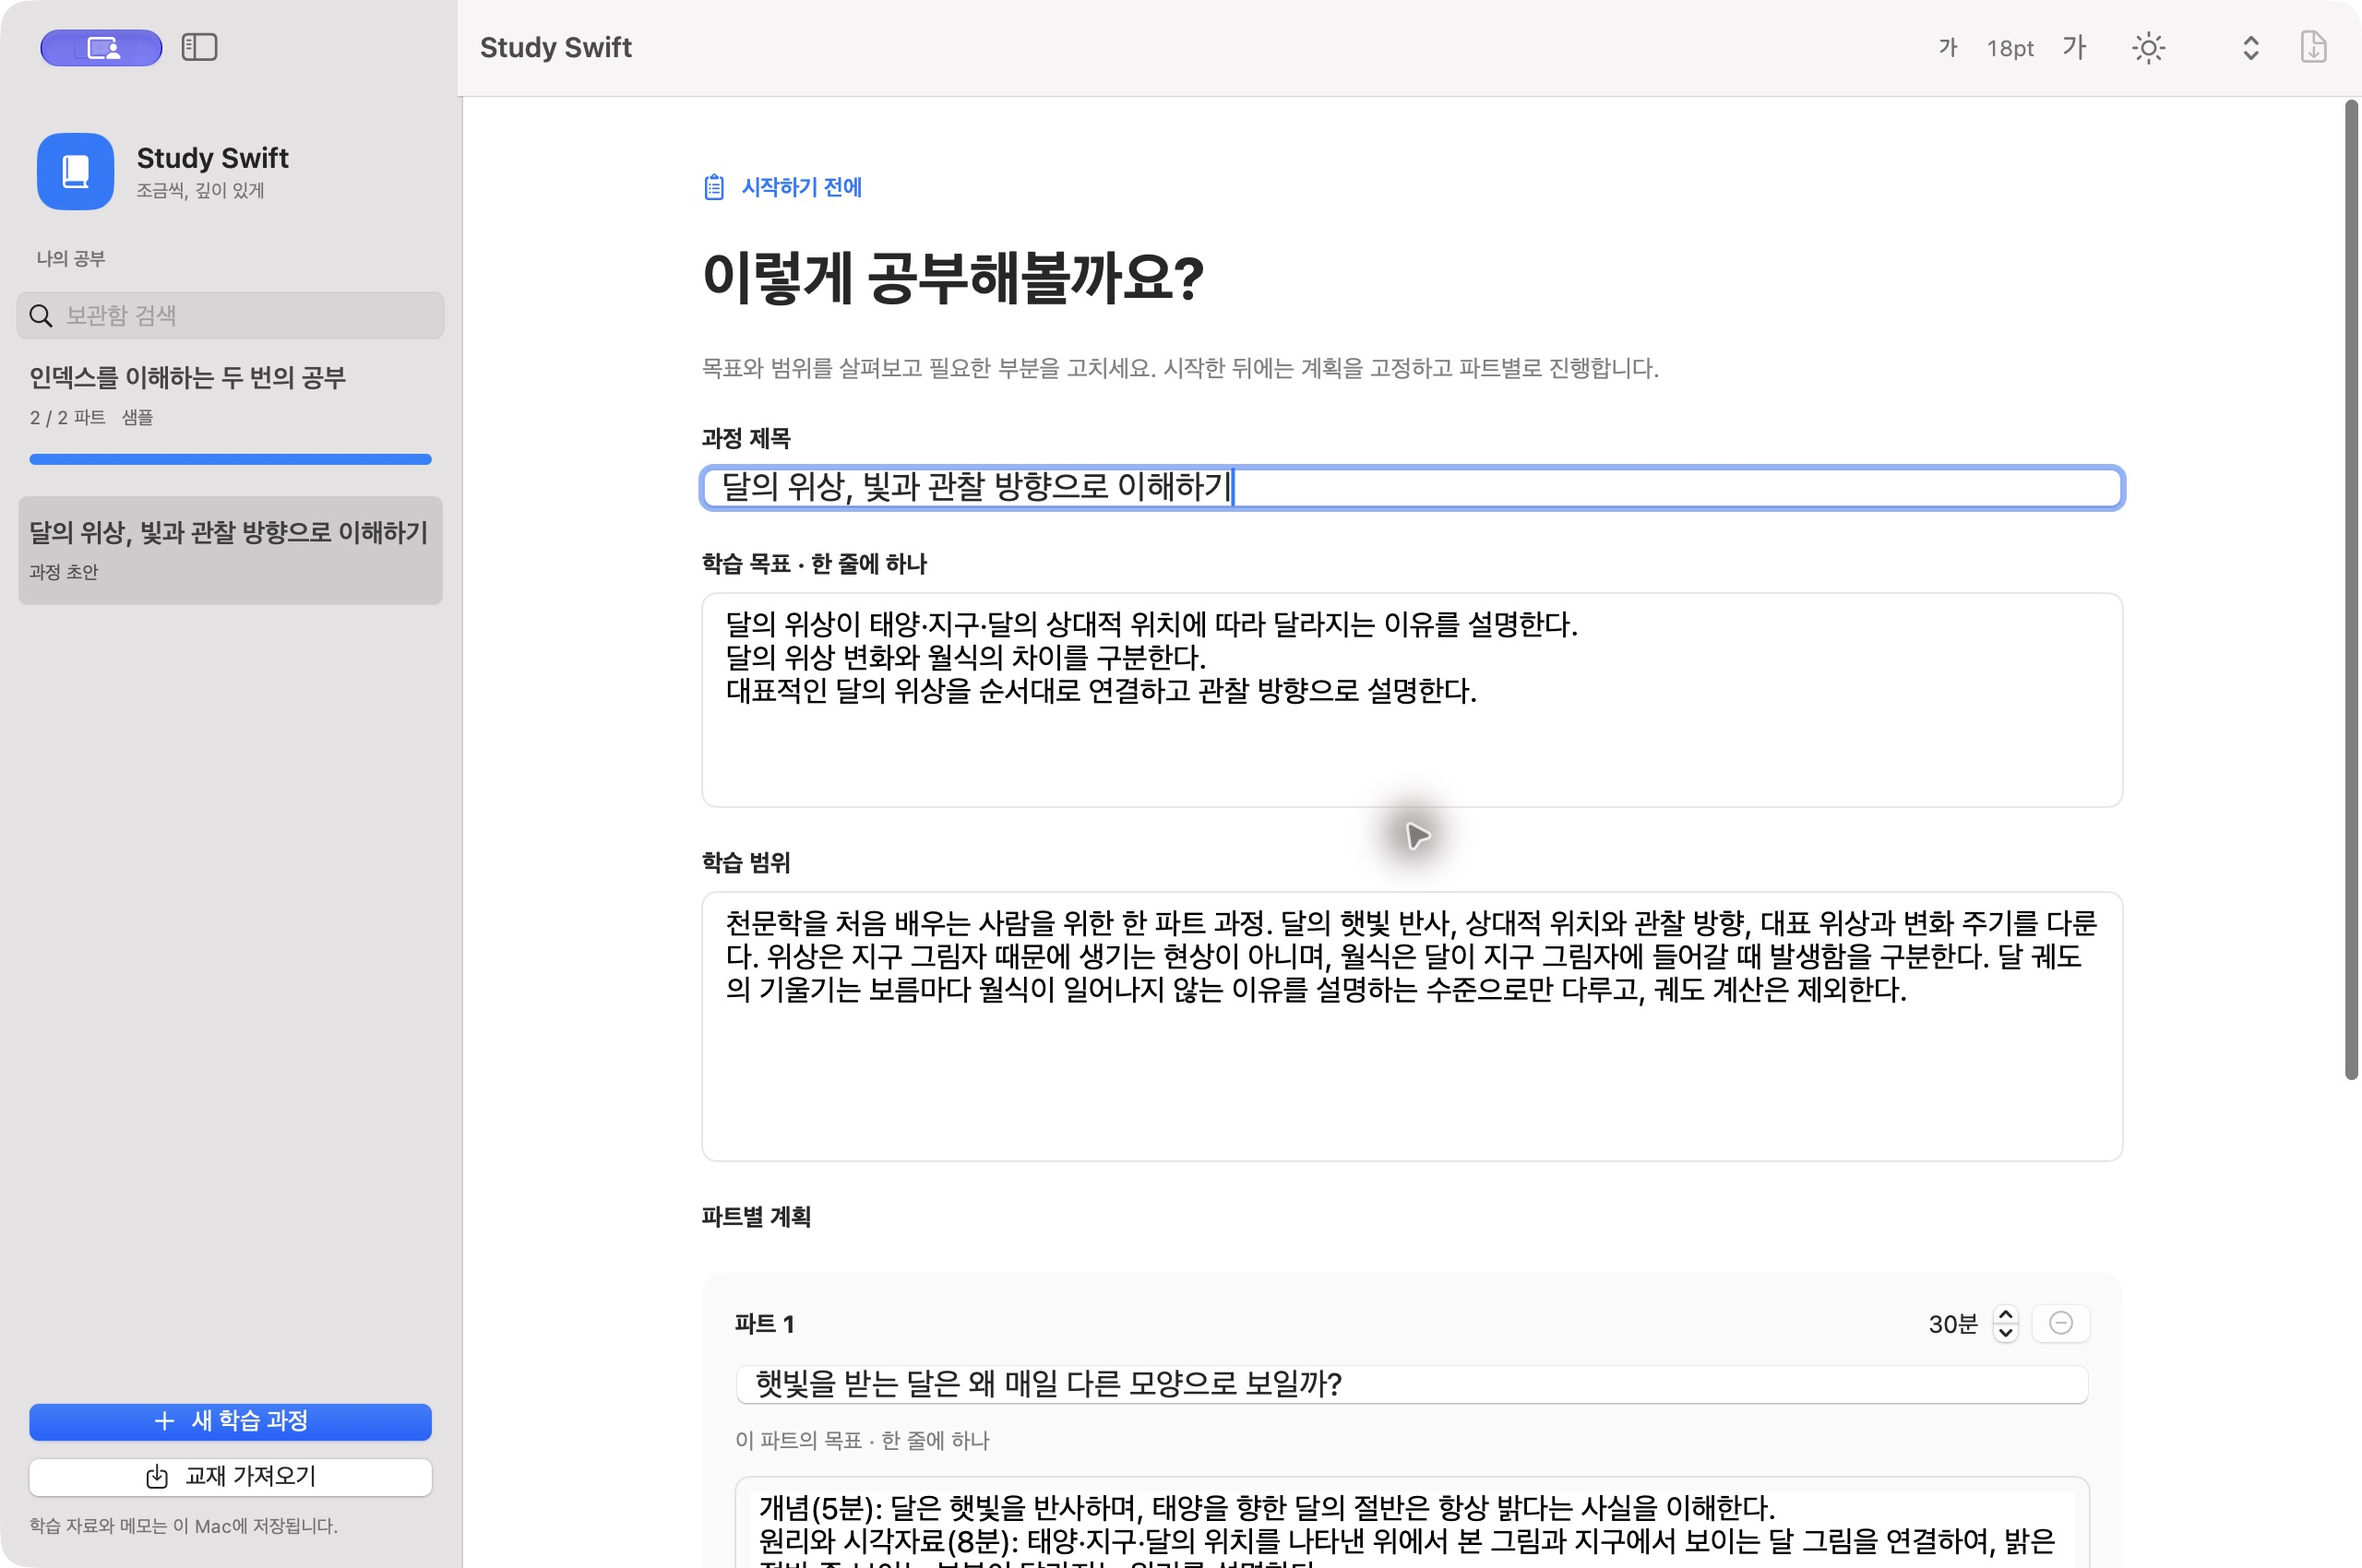
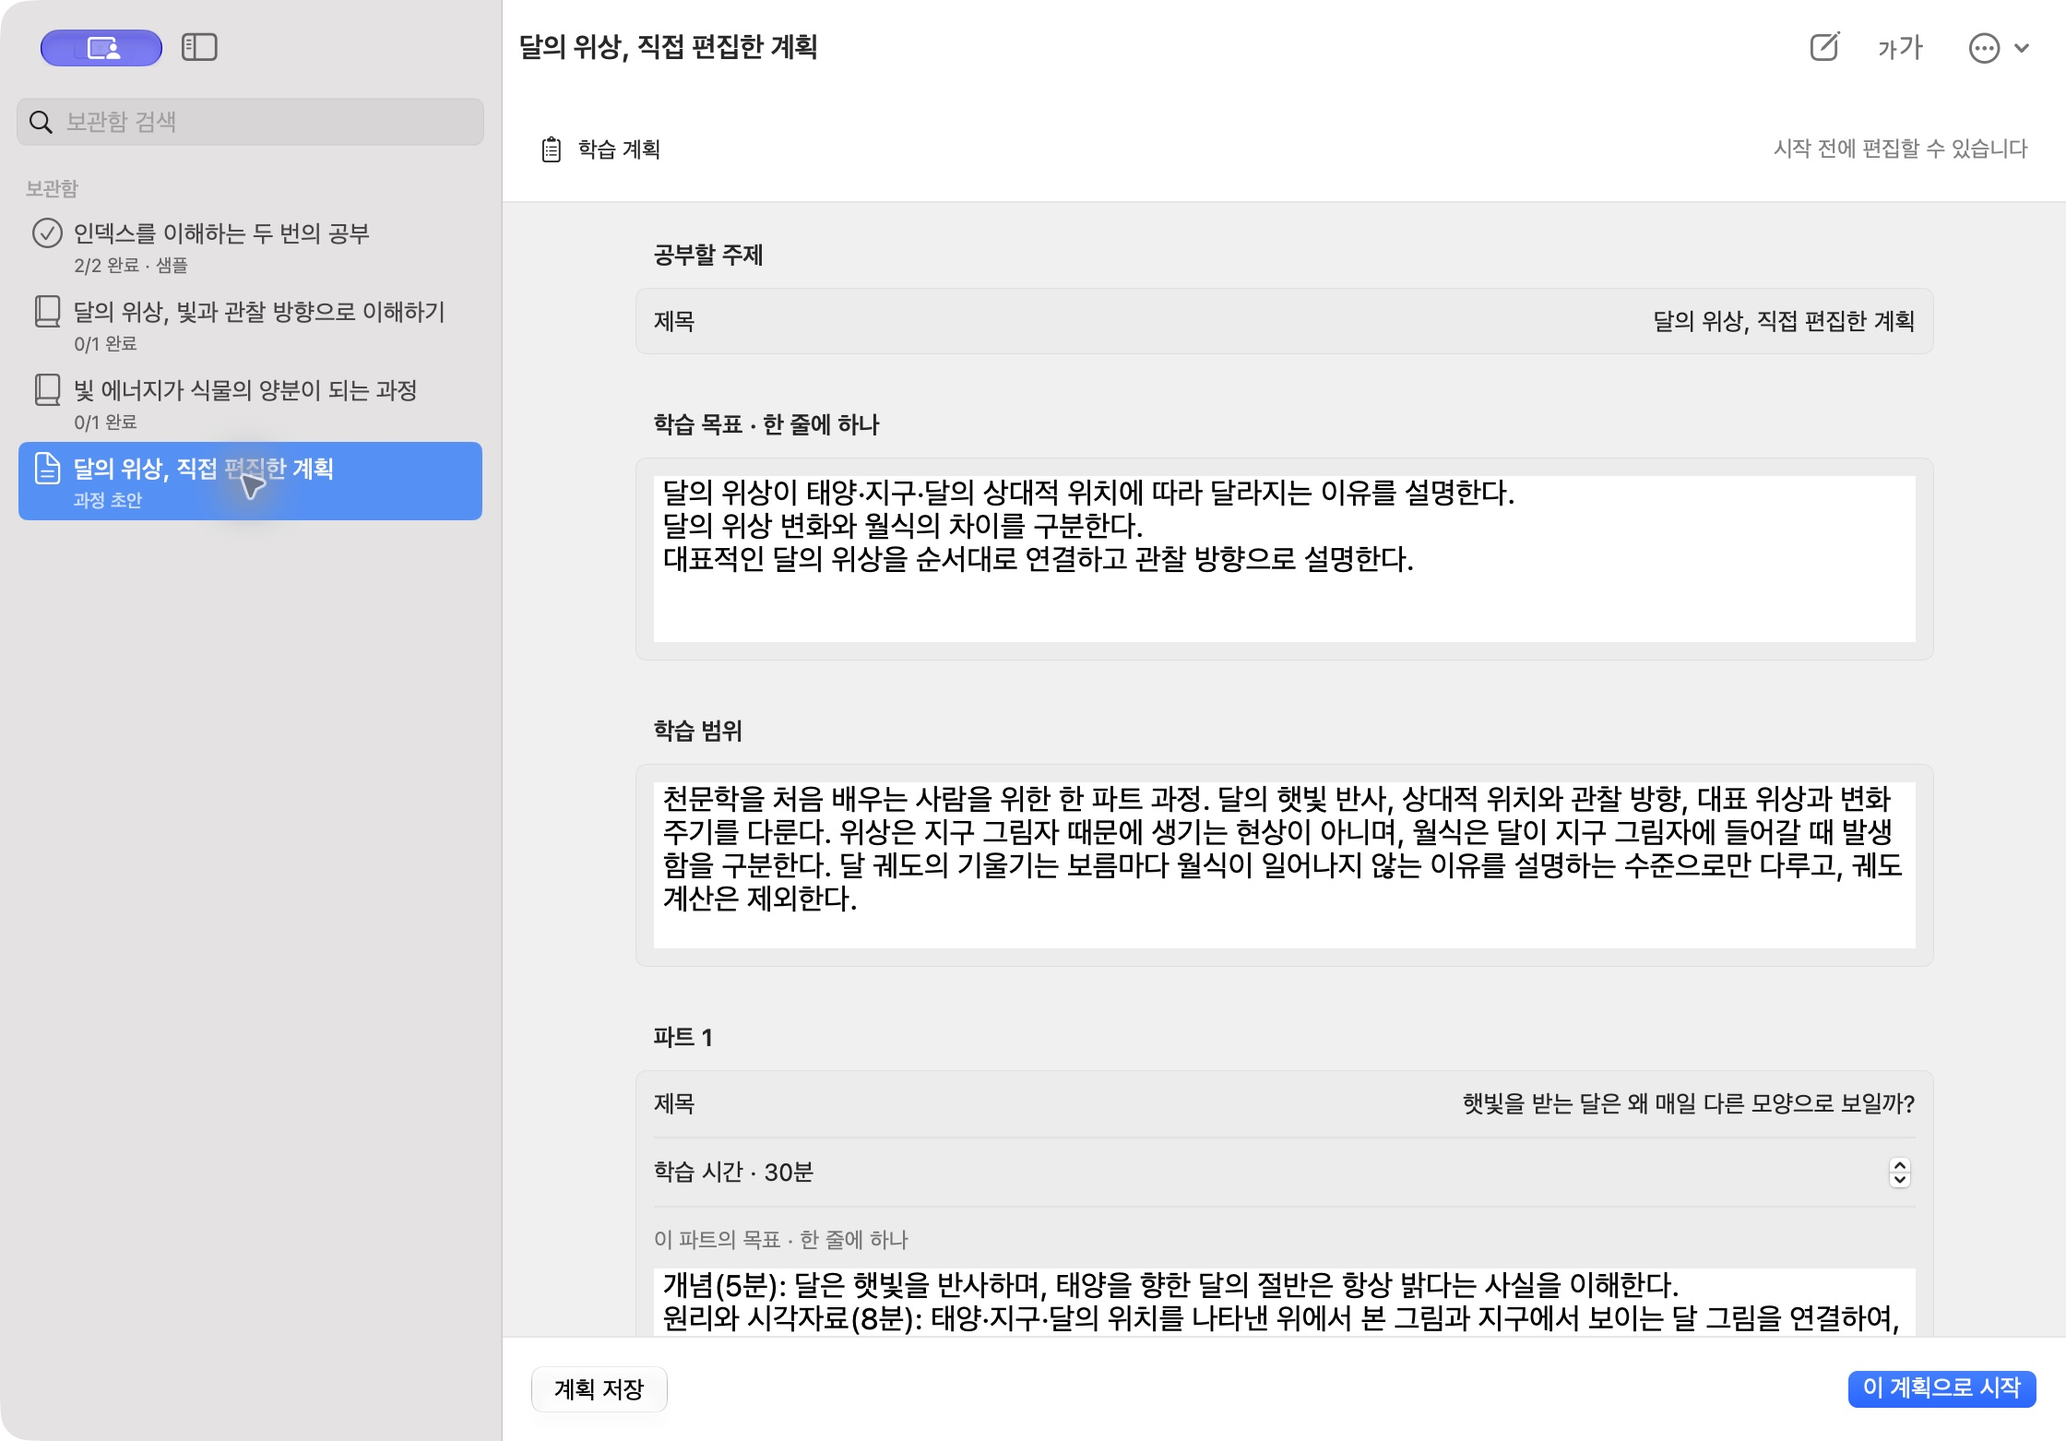
docs: 개선된 실제 앱 화면과 디자인 QA 기록 갱신
Apple HIG 적용 근거, 지원 SDK와 fallback 범위, 실제 캡처의 출처를 기록한다.

diff --git a/docs/qa.md b/docs/qa.md
@@ -11,7 +11,7 @@
 | 배포 최소 타깃 | macOS 14 |
 | 인증 / CLI | 기존 ChatGPT 구독 로그인, Codex CLI 0.160.1 |
 | 앱 | Release, 0.1.0, ad-hoc 서명 |
-| UI 캡처 | 실제 1280×850pt 창, 2560×1700 PNG |
+| 최신 UI 캡처 | 실제 1120×780pt 창, 2240×1560 PNG |
 
 최소 타깃 지정은 macOS 14·Intel Mac 실기기 검증을 의미하지 않는다. 개발자 인증서 서명·공증·App Store 배포는 수행하지 않았다.
 
@@ -73,15 +73,34 @@
 
 한글 표시, 긴 코드 줄바꿈과 페이지 나눔, ASCII 고정폭, 표 셀 줄바꿈과 이어지는 페이지의 헤더, 그림과 캡션, 출처, 문제 이후의 정답 페이지를 확인했다. 검토 중 발견한 내용 제목의 페이지 끝 고립과 그림 캡션 분리를 수정한 뒤 최종 문서로 재확인했다.
 
+## 네이티브 디자인 개선 검증
+
+2026-10-08. 사용자 제공 스킬과 현재 Apple HIG를 확인하고 네이티브 두 열 탐색·편집 및 macOS 26+ Liquid Glass를 적용했다. 기존 저장 교재를 복사한 별도 디자인 QA 보관함을 사용했다. 기존 보관함과 사용자가 추가한 과정은 덮어쓰지 않았고 추가 AI 호출을 하지 않았다.
+
+| 변경 영역 | 실제 실행에서 확인한 결과 |
+|---|---|
+| 탐색·경계 | 과정/목차 List 선택, native 검색, 사이드바 숨김/표시. 툴바 배경을 숨긴 후 상단과 본문의 세로 경계가 이어짐. 1120pt 창과861pt 좁은 창에서 재확인 |
+| Liquid Glass | 실제 macOS 27에서 regular glassEffect 페이지 위치와 glass/glassProminent 이동·완료 버튼 표시, 이전/다음 동작. 본문과 그림은 일반 내용 층 유지 |
+| 크기·테마 | 읽기 popover Slider18→21, 어둡게/밝게, ⌘0 복원. 28pt 상한·좁은 창의 줄바꿈과 스크롤 확인. 설정 값은 재실행 후 유지 |
+| 그림과 viewport | SVG 그림·캡션·출처 표시와 내용 전환. 검증 중 그림 탭의 크기 계산 반복을 발견해 representable의 sizeThatFits를 viewport 제안으로 고정. 수정 후 재실행·그림→텍스트→그림·창 크기 변경·숨김/표시·스크롤 정상 |
+| 계획 | 실제 계획의 QA 초안 사본에서 제목 입력·저장, 시간 Stepper30↔31, 파트 추가/삭제. 제목·목표·범위·파트 목표의 접근성 이름 확인 |
+| 퀴즈 | 네이티브 메모와 DisclosureGroup 선택 공개, 재실행 후 메모와 공개 상태 복원. 완료 샘플의 복습 완료 sheet와 완료 상태 유지 |
+| 시작 화면 | 격리된 빈 보관함에서 중앙 ContentUnavailableView와 새 과정/샘플 버튼 확인. ⌘N sheet의 빈 입력에서는 생성 버튼 비활성화, Escape로 복원 |
+| 단축키 | ⌘[ / ⌘] 내용 전환. ⌘N의 별도 창 생성 충돌을 단일 Window와 replacing 명령으로 수정해 새 과정 sheet 열림·Escape 닫힘 확인 |
+| PDF | 새 UI의 ⌘P → native 저장 대화상자 → 실제 달 교재7페이지 PDF 저장. PDF 생성 코어와 문제/정답 계약은 변경 없음 |
+
+이 개선에서도37개 자동 테스트가 모두 통과했고 최종 Release 빌드가 성공했다. macOS 14~25의 fallback은 availability 분기와 최소 타깃 빌드로 확인했으며 해당 OS 실기기 실행은 수행하지 않았다. 현재 Apple 문서와 코드의 대응은 [디자인 기준](design.md)에 기록했다.
+
 ## 스크린샷 출처
 
 | 파일 | 실제 화면 |
 |---|---|
 | [lesson.png](assets/lesson.png) | 실제 달의 위상 교재, Release, 밝은 테마 18pt |
-| [plan.png](assets/plan.png) | 실제 달의 위상 계획 생성 후 앱에서 제목 편집 |
+| [plan.png](assets/plan.png) | 실제 달의 위상 계획의 QA 초안 사본을 앱에서 제목 편집 |
 | [diagram.png](assets/diagram.png) | 실제 달 교재의 SVG를 PNG로 표시, Release |
 | [quiz.png](assets/quiz.png) | 고정 인덱스 샘플, 메모·정답 공개 |
-| [dark.png](assets/dark.png) | 고정 인덱스 샘플, 어두운 테마 21pt |
+| [options.png](assets/options.png) | 실제 달 교재의 네이티브 읽기 설정 popover,18pt 밝은 테마 |
+| [dark.png](assets/dark.png) | 실제 달의 위상 교재, 어두운 테마 21pt |
 
 합성한 UI나 텍스트를 덧씌운 화면을 사용하지 않았다. 생성 교재·작업 로그·메모·인증 파일은 Git에 넣지 않으며 공개 스크린샷은 이 QA용 학습 주제와 샘플만 포함한다.
 
